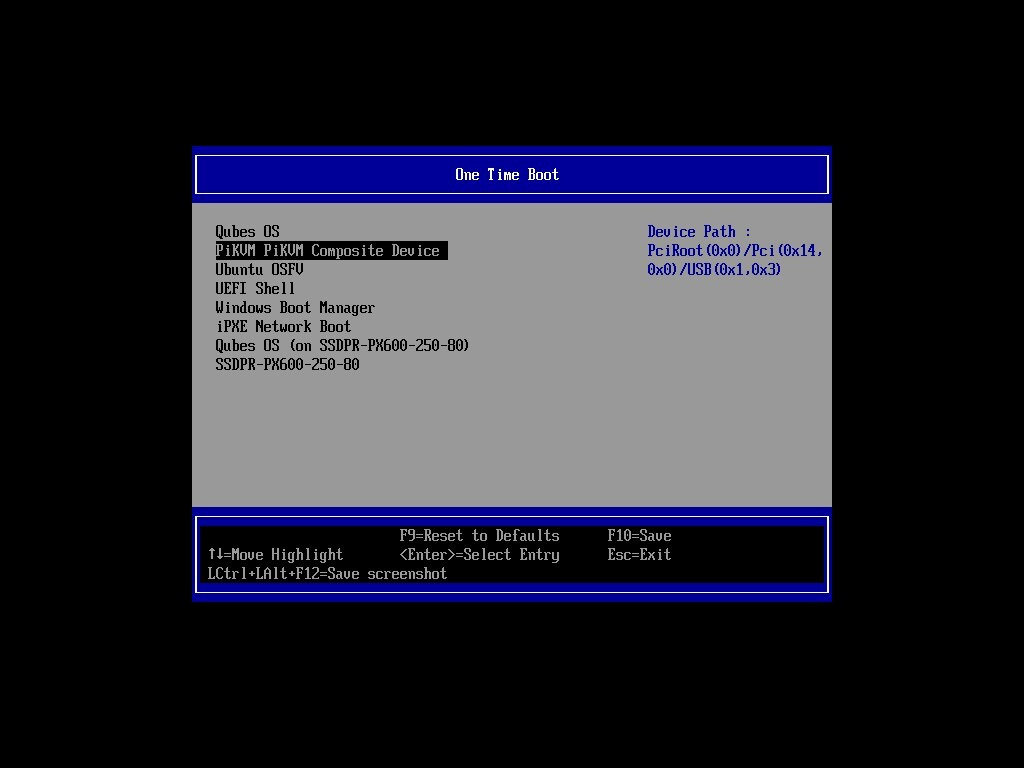
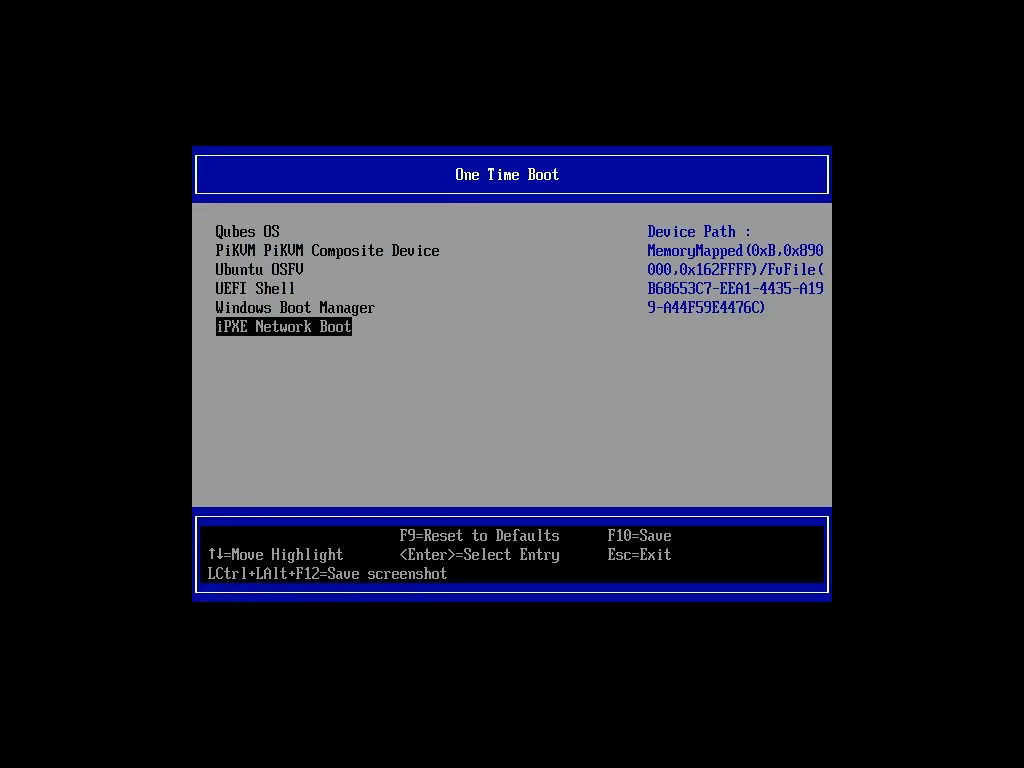
tests/install_startup.pm: boot NUC Box over iPXE
Boot media hits I/O issues when PiKVM serves it, network boot may be
more reliable.

diff --git a/generalhw/nuc-box/README.md b/generalhw/nuc-box/README.md
@@ -3,17 +3,6 @@
 For details about how this setup works, see
 [../adding-vnc-setup.md](../adding-vnc-setup.md).
 
-### Prepare installation media
-
-Make sure that an OTG drive containing the installation iso is connected to the
-platform using the PiKVM. It can be done using the PiKVM web interface or the
-console according to the instructions [PiKVM docs](https://docs.pikvm.org/msd/).
-
-Boot into Dasharo UI and make sure that "PiKVM PiKVM Composite Device" is set
-up to be the default boot entry. Save the configuration and only then start the
-job. There's an issue, where openQA can't utilize the one-time boot menu with
-the F7 key, so this step is done manually as of now.
-
 ### Start the job
 
 While logged into openQA server (unless you've installed and configured
@@ -22,13 +11,13 @@ While logged into openQA server (unless you've installed and configured
 Perform installation followed by AEM testing:
 
 ```
-openqa-cli api -X POST isos DISTRI=qubesos VERSION=4.2.3 ARCH=x86_64 BUILD=4.2.3 FLAVOR=install-iso-nuc-box CASEDIR="https://github.com/3mdeb/openqa-tests-qubesos.git" NEEDLES_DIR=%%CASEDIR%%/needles
+openqa-cli api -X POST isos DISTRI=qubesos VERSION=4.2.4 ARCH=x86_64 BUILD=4.2.4 FLAVOR=install-iso-nuc-box CASEDIR="https://github.com/3mdeb/openqa-tests-qubesos.git" NEEDLES_DIR=%%CASEDIR%%/needles
 ```
 
-ISO name is generated as `ISO=Qubes-R%BUILD%-%ARCH%.iso`, and a file with this
-name needs to exist on the openQA worker, but in practice that file goes
-unused. That file could well be empty, and the ISO image PiKVM presents to the
-SUT will be actually used.
+`ISO` and `HDD_1` variables are generated as `Qubes-R%BUILD%-%ARCH%.iso`, and a
+file with this name needs to exist on the openQA worker at
+`/var/lib/openqa/share/factory/{iso,hdd}/` (`hdd` directory can contain a
+symbolic link to the file in `iso` directory to avoid wasting space).
 
 Output like
 

diff --git a/generalhw/README.md b/generalhw/README.md
@@ -68,7 +68,7 @@ VNC-based setup for OptiPlex.  New setups should use VNC if possible (see
   - toggles `kvmd` after starting/stopping the tests
   - input is handled by VNC (`kvmd-vnc`)
   - Kickstart configuration is served by openQA worker
-  - installation is done from a drive mounted via PiKVM MSD
+  - installation is done over the network via iPXE
   - requires platform-specific changes in Qubes OS
 
 ## Usage information